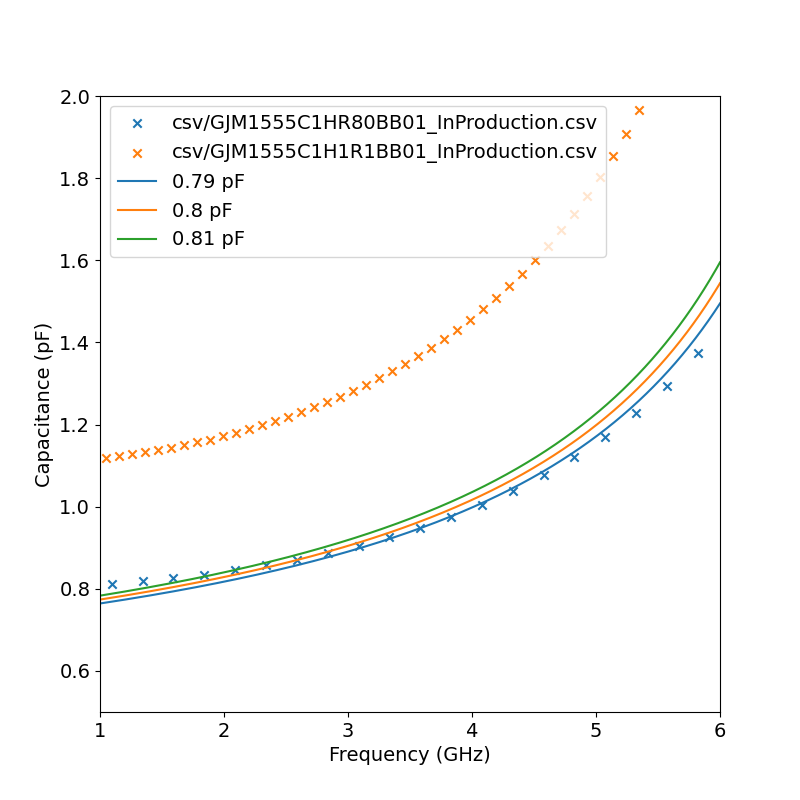
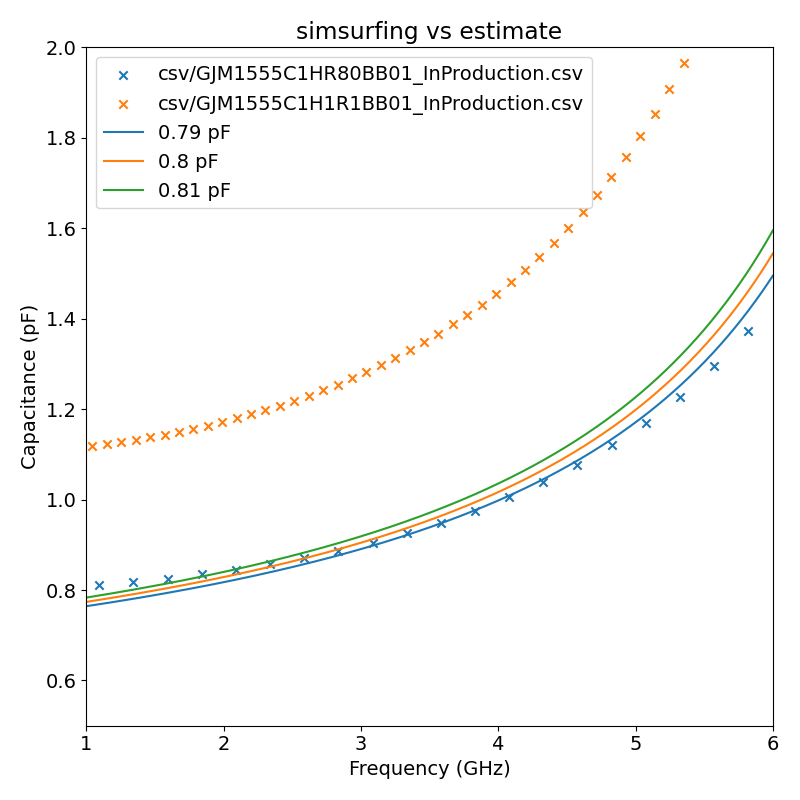
:+1: Update :

diff --git a/estimate.py b/estimate.py
@@ -41,7 +41,7 @@ def fd(x, a, b, c):
     return a * np.exp(b*x) + c
 
 plt.figure(figsize=(8,8))
-plt.rcParams["font.size"] = 14
+plt.rcParams["font.size"] = 12
 plt.suptitle(r'$capacitance = a + b \ \tan(freq(GHz) \cdot c + d)$')
 
 plt.subplot(221)
@@ -80,11 +80,13 @@ popt_d, pcov = curve_fit(fd, x, d, maxfev=int(1e5))
 plt.plot(x, fd(x, *popt_d))
 print(popt_d)
 
+plt.tight_layout()
 # plt.legend()
 plt.savefig('est.png')
 # plt.show()
 
 plt.clf()
+plt.rcParams["font.size"] = 14
 
 ##### copare 'simsurfing' data #####
 import csv
@@ -133,11 +135,12 @@ f = np.linspace(1, 6, 1000)
 for c in caps:
     plt.plot(f, y(f,c), label='{} pF'.format(c))
 
-plt.rcParams["font.size"] = 14
+plt.title('simsurfing vs estimate')
 plt.xlim(1, 6)
 plt.ylim(0.5, 2)
 plt.xlabel('Frequency (GHz)')
 plt.ylabel('Capacitance (pF)')
+plt.tight_layout()
 plt.legend()
 plt.savefig('est2.png')
 # plt.show()
